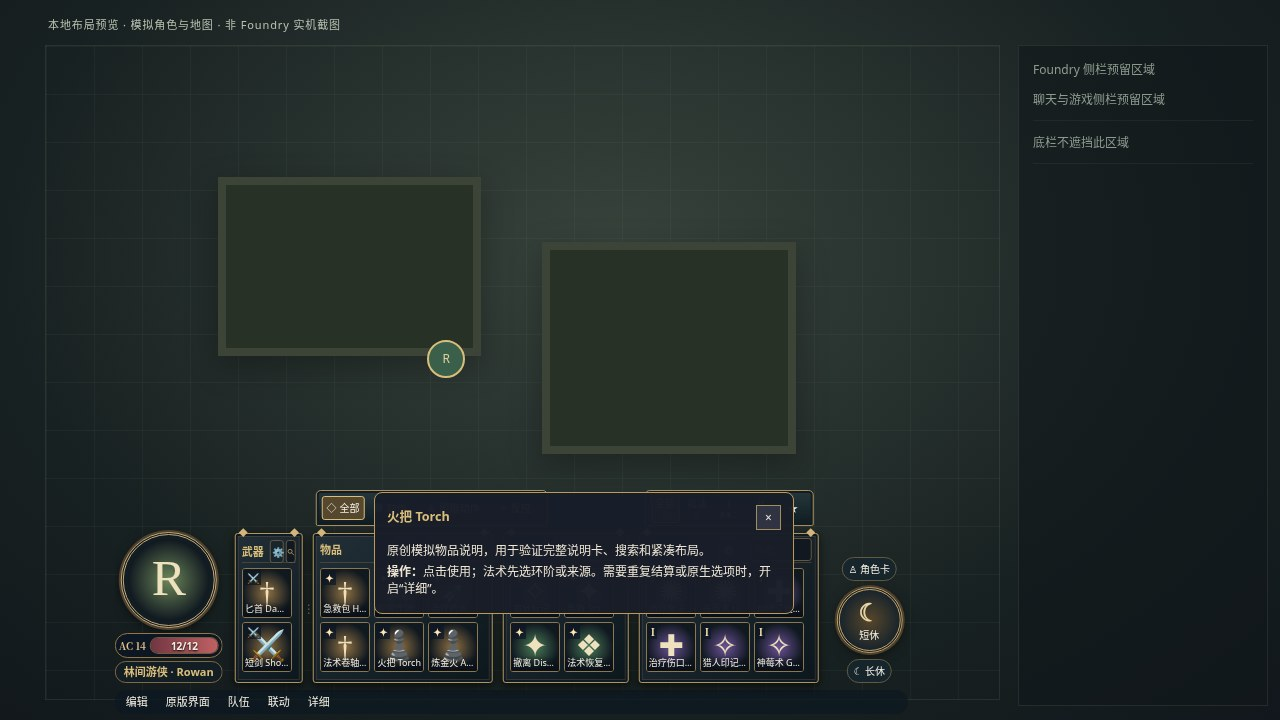
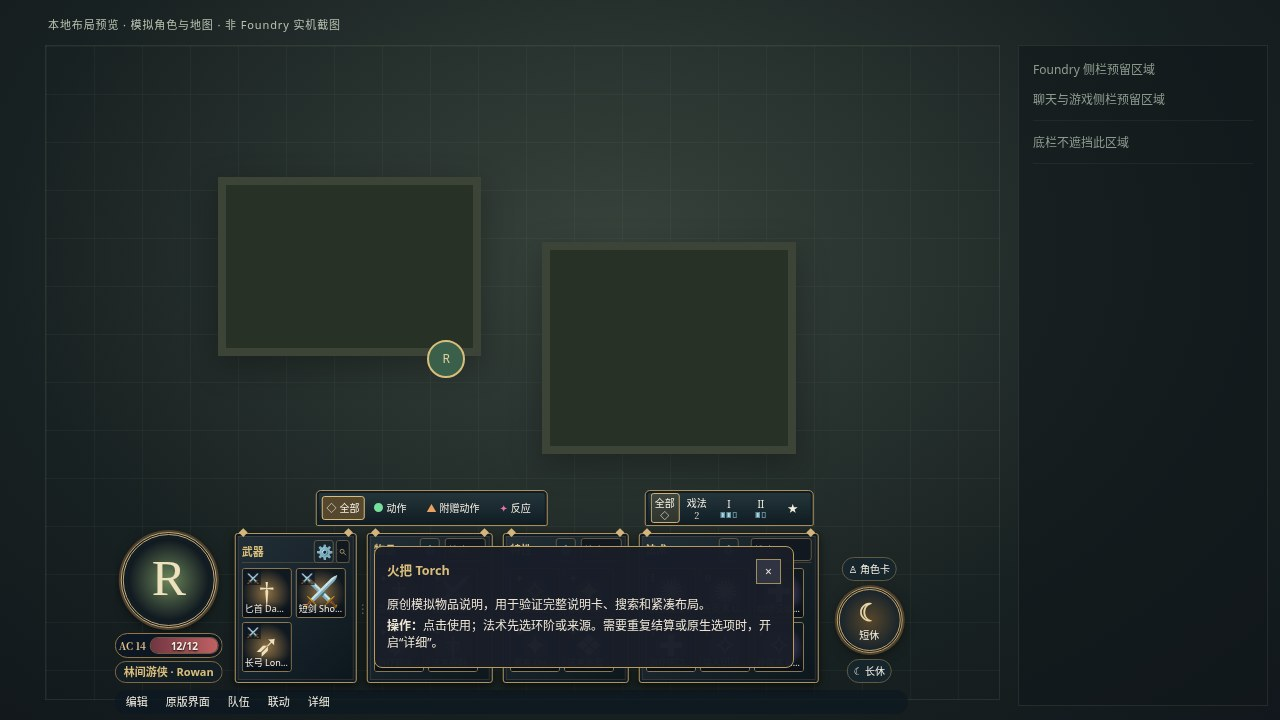
fix: reserve two columns for groups with three or more entries

Changed region(s): [[0.1875, 0.6722, 0.625, 0.9472]]

diff --git a/tests/reference-browser.js b/tests/reference-browser.js
@@ -90,6 +90,29 @@ export async function referenceBrowserTests({ test, assert, equal, flush }) {
         equal(user.writes.length, writes); equal(JSON.stringify(user.flags), flags);
       } finally { hud.setActor(hero, token); }
     });
+    await test('three-item groups keep two actual square icon columns with many spells and a narrow sidebar budget', async () => {
+      const entries = [
+        ...Array.from({ length: 3 }, (_, i) => item(`w-${i}`, 'weapon')),
+        ...Array.from({ length: 3 }, (_, i) => item(`i-${i}`, 'consumable', { activation: { type: 'action' } })),
+        ...Array.from({ length: 3 }, (_, i) => item(`f-${i}`, 'feat')),
+        ...Array.from({ length: 100 }, (_, i) => item(`s-${i}`, 'spell'))];
+      const sidebar = document.createElement('aside'); sidebar.id = 'sidebar';
+      sidebar.style.cssText = `position:fixed;right:0;top:0;bottom:0;width:${innerWidth * .4}px`;
+      try {
+        hud.setActor(actor('minimum-cols', entries));
+        for (const narrow of [false, true]) {
+          if (narrow) document.body.append(sidebar);
+          hud.render();
+          for (const list of hud.root.querySelectorAll('.bg3-video-hud-items')) {
+            const cards = [...list.querySelectorAll('.bg3-video-hud-use')];
+            const first = cards[0].getBoundingClientRect(), second = cards[1].getBoundingClientRect();
+            assert(Math.abs(first.top - second.top) < 1, 'First two icons must share a row');
+            assert(second.left > first.right && second.right <= list.getBoundingClientRect().right + 1);
+            assert(Math.abs(first.width - first.height) < .6);
+          }
+        }
+      } finally { sidebar.remove(); hud.setActor(hero, token); }
+    });
     await test('reference structure separates portrait, four framed decks and circular native action controls', async () => {
       assert(hud.root.querySelector('.bg3-video-hud-end .bg3-video-hud-turn'));
       equal(hud.root.querySelectorAll('.bg3-video-hud-panel').length, 4);

diff --git a/scripts/model.js b/scripts/model.js
@@ -56,16 +56,17 @@ export function autoColumnWidths(counts, { width, cell, gap = 0, frame = [0, 0, 
     throw new Error('Invalid automatic column geometry');
   }
   const load = GROUPS.map((_, i) => Number.isFinite(counts?.[i]) ? Math.max(0, Math.floor(counts[i])) : 0);
-  const columns = GROUPS.map(() => 1);
-  const demand = load.map(count => Math.max(1, Math.ceil(count / rows)));
+  const columns = load.map(count => count >= 3 ? 2 : 1);
+  const minimum = columns.reduce((sum, count) => sum + count, 0);
+  const demand = load.map((count, i) => Math.max(columns[i], Math.ceil(count / rows)));
   const room = Math.max(0, width - gap * (n - 1));
   const budget = Math.floor((room - frame.reduce((a, b) => a + b, 0) + n * gap) / (cell + gap));
-  if (budget < n) {
-    const widths = GROUPS.map(() => room / n);
+  if (budget < minimum) {
+    const widths = columns.map(count => room * count / minimum);
     return { columns, widths, used: widths.reduce((a, b) => a + b, 0) + gap * (n - 1) };
   }
   const limit = Math.min(budget, demand.reduce((a, b) => a + b, 0), 10000);
-  for (let allocated = n; allocated < limit; allocated++) {
+  for (let allocated = minimum; allocated < limit; allocated++) {
     let best = -1;
     for (let i = 0; i < n; i++) {
       if (columns[i] >= demand[i]) continue;

diff --git a/tests/model.test.js b/tests/model.test.js
@@ -66,6 +66,17 @@ test('automatic widths reserve full icon columns and give the crowded category m
   for (let i = 0; i < 4; i++) assert.ok(spells.widths[i] >= 20 + spells.columns[i] * 50 + (spells.columns[i] - 1) * 6);
 });
 
+test('three or more items reserve at least two columns even beside a much larger category or in a narrow budget', () => {
+  const options = { width: 1000, cell: 50, gap: 6, frame: [20, 20, 20, 20] };
+  for (const width of [1000, 300]) {
+    const plan = autoColumnWidths([3, 4, 3, 500], { ...options, width });
+    assert.ok(plan.columns.every(count => count >= 2));
+    assert.ok(Math.abs(plan.used - width) < 1e-8);
+  }
+  const small = autoColumnWidths([0, 1, 2, 3], options);
+  assert.deepEqual(small.columns.slice(0, 3), [1, 1, 1]); assert.ok(small.columns[3] >= 2);
+});
+
 test('automatic layout keeps its full width for sparse, empty or crowded actors and rejects invalid geometry', () => {
   const options = { width: 1000, cell: 50, gap: 6, frame: [20, 20, 20, 20] };
   const counts = [0, 1, 2, 1], before = [...counts];

diff --git a/scripts/hud.js b/scripts/hud.js
@@ -410,6 +410,14 @@ export class VideoHUD {
       const plan = autoColumnWidths(this.columnCounts, { width: available - panelGap * 3 + gap * 3, cell, gap, frame, rows });
       if (root.dataset.columnSizing !== 'manual') {
         root.style.setProperty('--video-columns', plan.widths.map(width => `${width}px`).join(' '));
+        // Preserve two real grid columns for groups with >=3 items, even when
+        // a narrow sidebar budget requires smaller (still square) local tiles.
+        const sections = [...panels.querySelectorAll('.bg3-video-hud-panel')];
+        sections.forEach((section, i) => {
+          const minimum = this.columnCounts[i] >= 3 ? 2 : 1;
+          const fit = (plan.widths[i] - frame[i] - (minimum - 1) * gap) / minimum;
+          section.style.setProperty('--video-cell', `${Math.min(cell, Math.max(1, fit))}px`);
+        });
       }
     }
     const bounds = panels.getBoundingClientRect();

diff --git a/docs/TEST_REPORT.md b/docs/TEST_REPORT.md
@@ -5,19 +5,21 @@
 | 检查 | 结果 | 证据边界 |
 | --- | --- | --- |
 | npm run check | 52个JS及manifest／资源路径通过 | 静态检查 |
-| npm test | 132通过 | 目标模式、选择前零使用、原生唯一消费、魔法飞弹、可选反应配置、来源删除保护、比例保存、结束回合权限等文档替身 |
-| npm run test:browser | 124通过 | Chromium155，真实DOM／CSS／键鼠，模拟FoundryAPI |
+| npm test | 133通过 | 目标模式、选择前零使用、原生唯一消费、魔法飞弹、可选反应配置、来源删除保护、比例保存、结束回合权限等文档替身 |
+| npm run test:browser | 125通过 | Chromium155，真实DOM／CSS／键鼠，模拟FoundryAPI |
 | npm run test:modstest-deploy | 51通过 | 共享实例配置、事务恢复与安全守卫 |
 | npm run test:deploy | 25通过 | 临时目录安装、备份、原子更新、回滚与旧版兼容 |
 | npm run package | 通过 | ZIP根manifest、所有传递导入与独立安装器 |
 | SHA256SUMS | 通过 | ZIP／manifest／安装器完整性 |
 | Playwright discovery | 仅列出用例 | 没有运行实机测试或登录 |
 
-合计332个自动检查。发布工作流会对实际标签提交重新运行同一套检查；以对应CI运行结果为准。静态检查、打包及用例发现不重复计入数量。
+合计334个自动检查。发布工作流会对实际标签提交重新运行同一套检查；以对应CI运行结果为准。静态检查、打包及用例发现不重复计入数量。
 
 对照原作者有效入口进行静态分析及离线只读渲染；未执行安装或战斗流程。参考渲染使用原创模拟数据，私有参考截图／代码不发布。公开截图为本项目自己的实现，不是用户世界。
 
 本次新增重点：
+
+- 数量边界0／1／2／3和高度不均衡的分类回归：数量≥3至少两列。真实DOM验证首两个图标同排、非仅检查模型数值，覆盖大量法术和窄侧栏，保持方形及总宽。
 
 - 不再写入或读取 Root 的 --video-auto-width；模型把剩余空间留在固定预算内。原有“稀疏即缩小”的断言改为固定预算，真实 DOM 也覆盖全空角色；视口矩阵逐档对比稀疏与拥挤角色总宽相同。
 

diff --git a/docs/COMPACT_HUD.md b/docs/COMPACT_HUD.md
@@ -6,7 +6,7 @@
 
 分组齿轮在独立弹窗中管理显示与排序；活动、施法方式、来源和手动目标分配也在弹窗。全局“编辑”仍保留紧凑底栏编辑入口。确认内容不挤占技能栏。
 
-按未隐藏且符合主动规则的条目数计算，各栏至少留一个图标列；优先把整列空间给每列承载条目最多的分类，满足基本容量后，把剩余空间按数量权重分配为可保留的空位。空间不足保留滚动，数量少或为空也不缩小整体；边框／内距／滚动条单独预留，总宽预算始终用满，允许空图标位置和尾部空白。搜索、动作和法术等级筛选不触发数量重算；物品增删、隐藏设置、角色切换和视口变化会重新分配。
+按未隐藏且符合主动规则的条目数计算，数量不足3的栏至少留一列，数量≥3的栏至少保留两列实际图标；优先把整列空间给每列承载条目最多的分类，满足基本容量后，把剩余空间按数量权重分配为可保留的空位。空间不足保留滚动，数量少或为空也不缩小整体；边框／内距／滚动条单独预留，总宽预算始终用满，允许空图标位置和尾部空白。搜索、动作和法术等级筛选不触发数量重算；物品增删、隐藏设置、角色切换和视口变化会重新分配。
 
 旧三栏／四栏 ratios 仍保留在原用户数据中，但默认不覆盖新版自动分配，不自动迁移写入。新拖动／方向键操作会显式记录 columnSizing=manual；双击／Home 删除此手动模式和比例，恢复自动。没有角色或 GM 未选择时不强制显示空角色栏。
 
@@ -44,3 +44,5 @@ CHROMIUM_PATH=/path/to/chromium node e2e/capture-previews.mjs
 ```
 
 预览输出含五档截图、施法／来源／编辑／说明／分配弹窗截图和测量JSON。全部原创模拟数据，不登录Foundry。完整检查结果见[测试报告](TEST_REPORT.md)，参考差异和第三方规则边界见[原作者对照](PROTOTYPE_COMPARISON.md)。
+
+自动模式下，窄侧栏预算不足以容纳所有最低列数时，各栏的图标可在自身正方形格子内有界缩小以维持最低两列；不扩大或缩小 HUD 总宽。

diff --git a/docs/releases/v0.1.12.md b/docs/releases/v0.1.12.md
@@ -2,10 +2,10 @@
 
 按用户澄清，数量自适应只改变武器／物品／特性／法术四栏的内部空间分配。HUD 总宽仍由视口、侧栏和既有上限决定；能力总数少或为空时不再缩小整体，允许空位和尾部空白。
 
-内容多的分类仍获得更多空间；基本图标列分配后，余量按数量权重留在各栏。搜索、筛选、增删项目和切换角色不改变同一视口下的总宽，手动分隔条也只调整内部比例。
+自动模式下，某类可显示内容数量≥3时至少保留两列实际图标；空间紧张时在栏内调整正方形图标尺寸以维持最低列数。内容多的分类仍获得更多空间；基本图标列分配后，余量按数量权重留在各栏。搜索、筛选、增删项目和切换角色不改变同一视口下的总宽，手动分隔条也只调整内部比例。
 
 保留正方形图标、底部名称、透明图标大字处理、主动筛选、滚动／焦点恢复、自动启用与 GM 空闲不警告。
 
-332项离线检查及原创预览。自动部署与自动实机测试关闭，没有登录或修改服务器。通过原manifest地址手动更新并重新载入客户端即可。
+334项离线检查及原创预览。自动部署与自动实机测试关闭，没有登录或修改服务器。通过原manifest地址手动更新并重新载入客户端即可。
 
 安装地址：https://github.com/DraculaCradle/bg3-video-hud/releases/latest/download/module.json

diff --git a/README.md b/README.md
@@ -2,7 +2,7 @@
 
 独立实现的 Foundry VTT V14／D&D5e 玩家操作界面，参考用户提供的视频与半成品交互。无需安装 BG3 HUD Core 或 BG3 HUD D&D5e；已安装时保留共存与返回能力。
 
-> **v0.1.12：保持 HUD 总宽度。** 同一视口和侧栏条件下，角色能力数量只影响四栏内部分配，总数少或为空也不缩小整体，允许保留空位。保留正方形图标、底部名称、主动筛选与 GM 空闲无提示。自动部署和自动实机测试继续关闭。
+> **v0.1.12：保持 HUD 总宽度。** 同一视口和侧栏条件下，角色能力数量只影响四栏内部分配；数量≥3的分类自动保留至少两列，总数少或为空也不缩小整体，允许保留空位。保留正方形图标、底部名称、主动筛选与 GM 空闲无提示。自动部署和自动实机测试继续关闭。
 
 > **Status:** functional MVP with automated model/action/persistence and Chromium DOM tests. Not yet verified in a running Foundry VTT v14 / D&D5e 6.0.6 world. Manifest compatibility declares the intended target, not a completed in-game certification.
 

diff --git a/docs/API_NOTES.md b/docs/API_NOTES.md
@@ -82,3 +82,5 @@ GM 没有受控 Token 且未分配角色时，HUD 安静清理，原界面恢复
 ## v0.1.12 固定总宽预算
 
 v0.1.11 的整体收窄规则被用户新要求替代。Root 宽度恢复仅由 CSS 有效视口／侧栏／上限决定，删除 --video-auto-width 的读写。autoColumnWidths 先分配基本整列，再按数量权重分配剩余空白；返回的 used 始终等于输入预算，稀疏／全空角色也是如此。手动比例仍只重新分配内部空间。不要为了消除空位缩小 Root。搜索稳定、滚动恢复、图标正方形和 GM 空闲守卫保持。
+
+数量达到3的分类，分配起点为两列，其余至少一列；宽度不足时按最低列数份额分配，并在各栏局部调整图标尺寸，实际 grid 仍满足最低列数且正方形。此约束用于自动模式，显式手动比例仍由用户控制。

diff --git a/docs/MANUAL_TESTS.md b/docs/MANUAL_TESTS.md
@@ -110,3 +110,5 @@ Release sign-off requires all applicable required checkboxes above, with recorde
 
 - 固定窗口、缩放和侧栏状态，依次选择大量能力、少量能力、没有物品能力的测试角色。HUD 总宽和左右边界应一致，四栏内部仍可根据数量改变份额，空白允许保留。
 - 同一角色增加／删除、隐藏能力，或搜索／筛选：总宽不变。改变视口／侧栏才按既有规则改变总宽；图标保持正方形，滚动和手动调整仍可用。
+
+- 自动模式中，某栏分别准备2、3、4个可显示项目，与一个有大量法术的分类并列。3个起至少两个图标同处首行；增加侧栏占用后仍至少两列，正方形及总宽约束保持。
